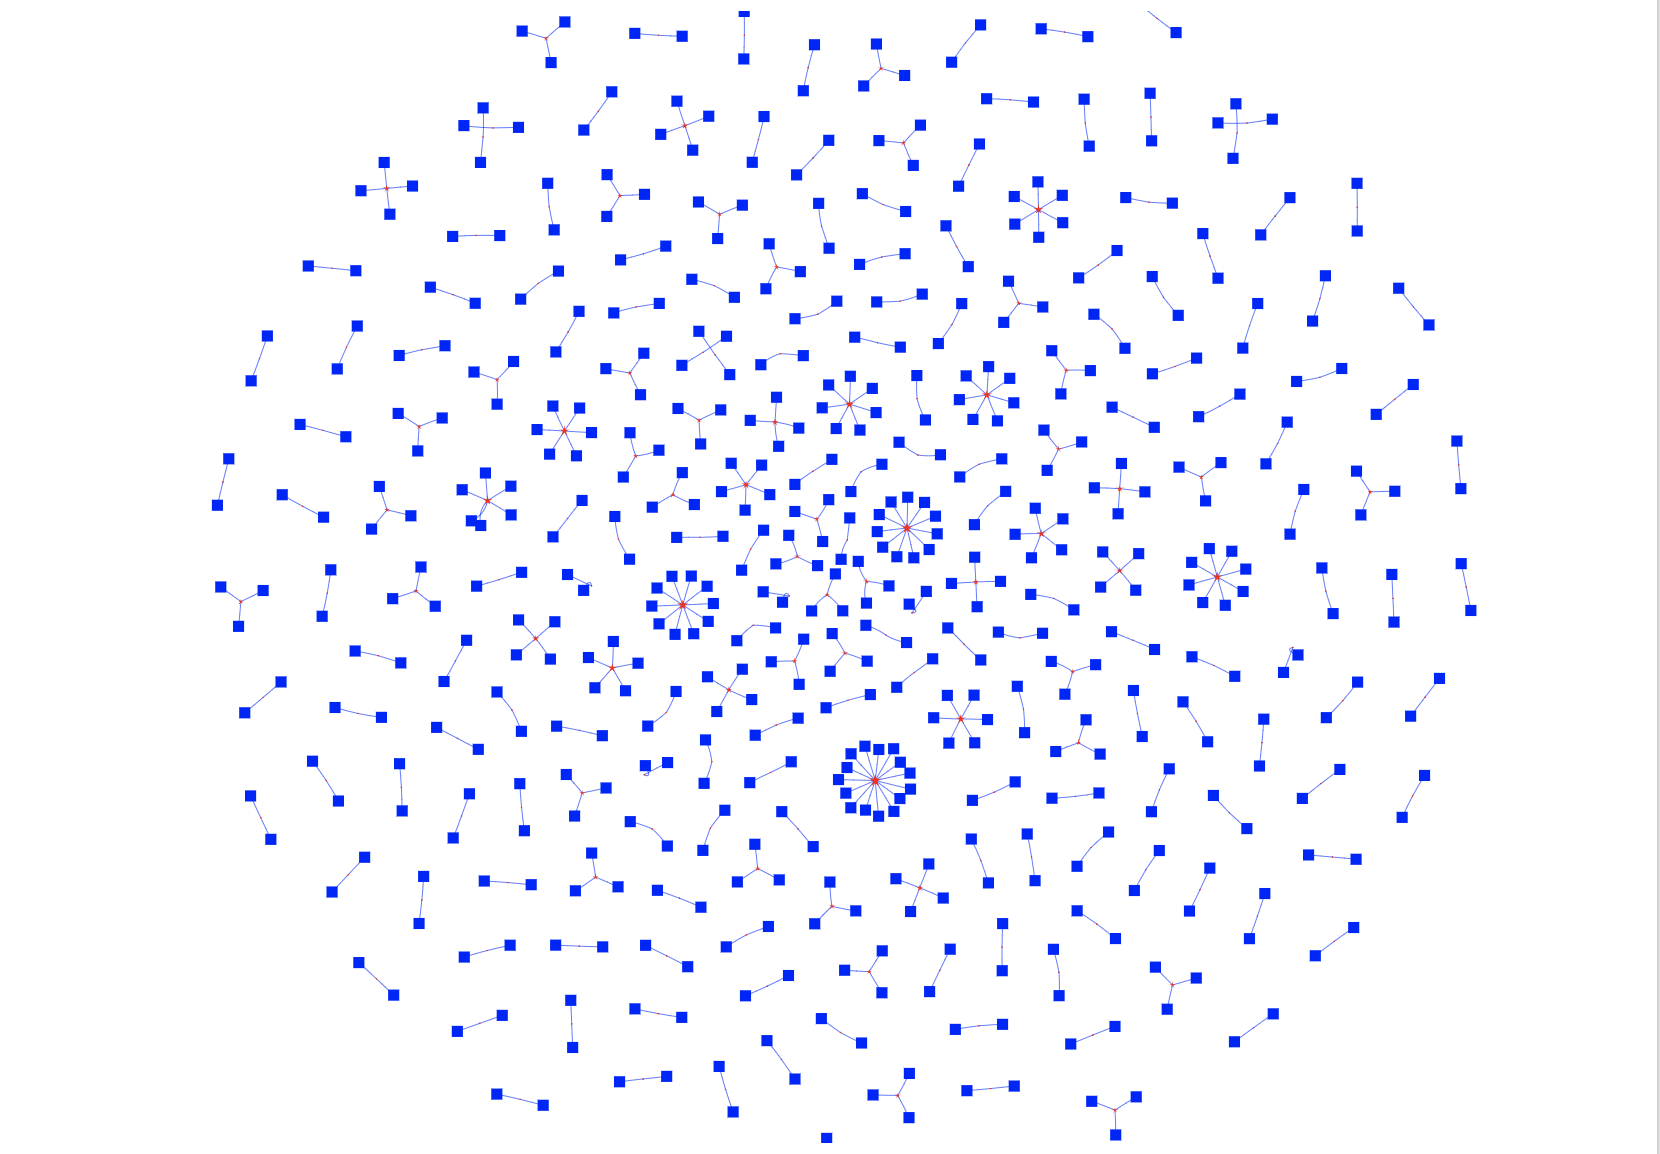
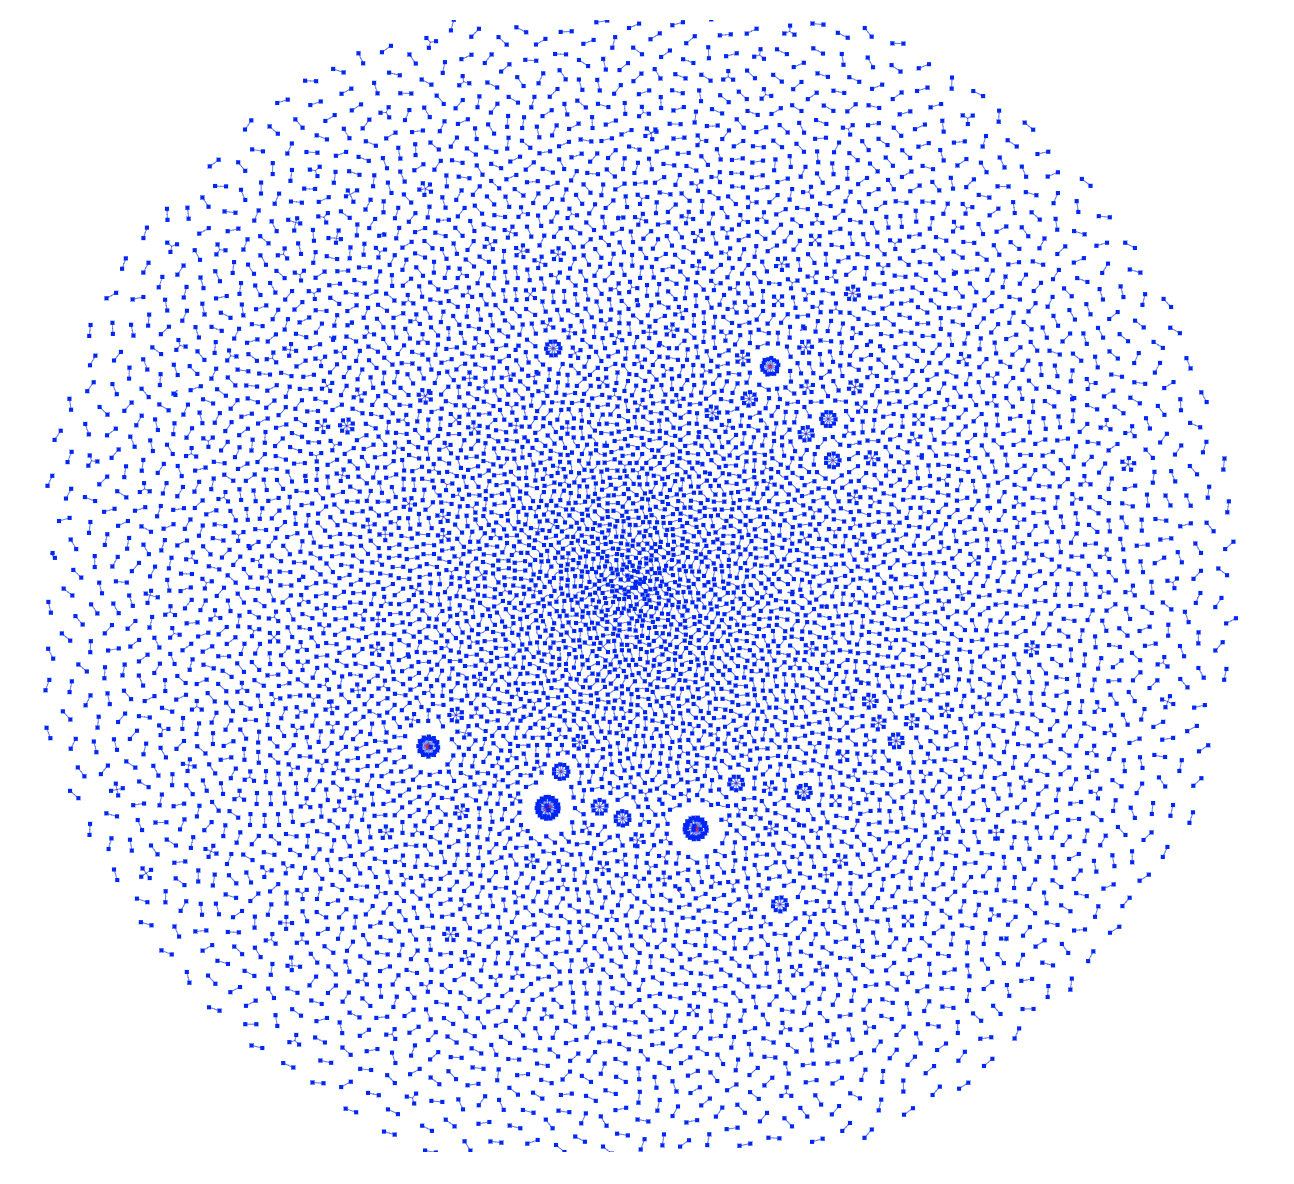
finally got the correct graph viz

Changed region(s): [[0.0618, 0.0, 0.9274, 0.9671], [0.9892, 0.0, 1.0, 1.0], [0.2164, 0.0624, 0.2473, 0.0936]]

diff --git a/article/draft.md b/article/draft.md
@@ -1042,15 +1042,10 @@ net.show("vegas.2.html")
 ![network: entities linked with records](img/vegas.2.png)
 
 Et voilà – our graph begins to emerge!
-Notice the 15 doppelgangers of our old friend Robert?
+Notice the clusters, some of which have 30+ records linked to the same entity.
+Let’s zoom into the bottom/center:
 
-
-## What's tough to get without a graph database?
-
-TBD
-
-    1. SafeGraph POI has business categories and NAICS codes – natural links and taxonomy for adding more relations to the KG, to build structure
-    2. Use geo coordinates to visualize map as a quick example use case
+![network: zoom into record linking](img/vegas.3.png)
 
 
 ## Summary
